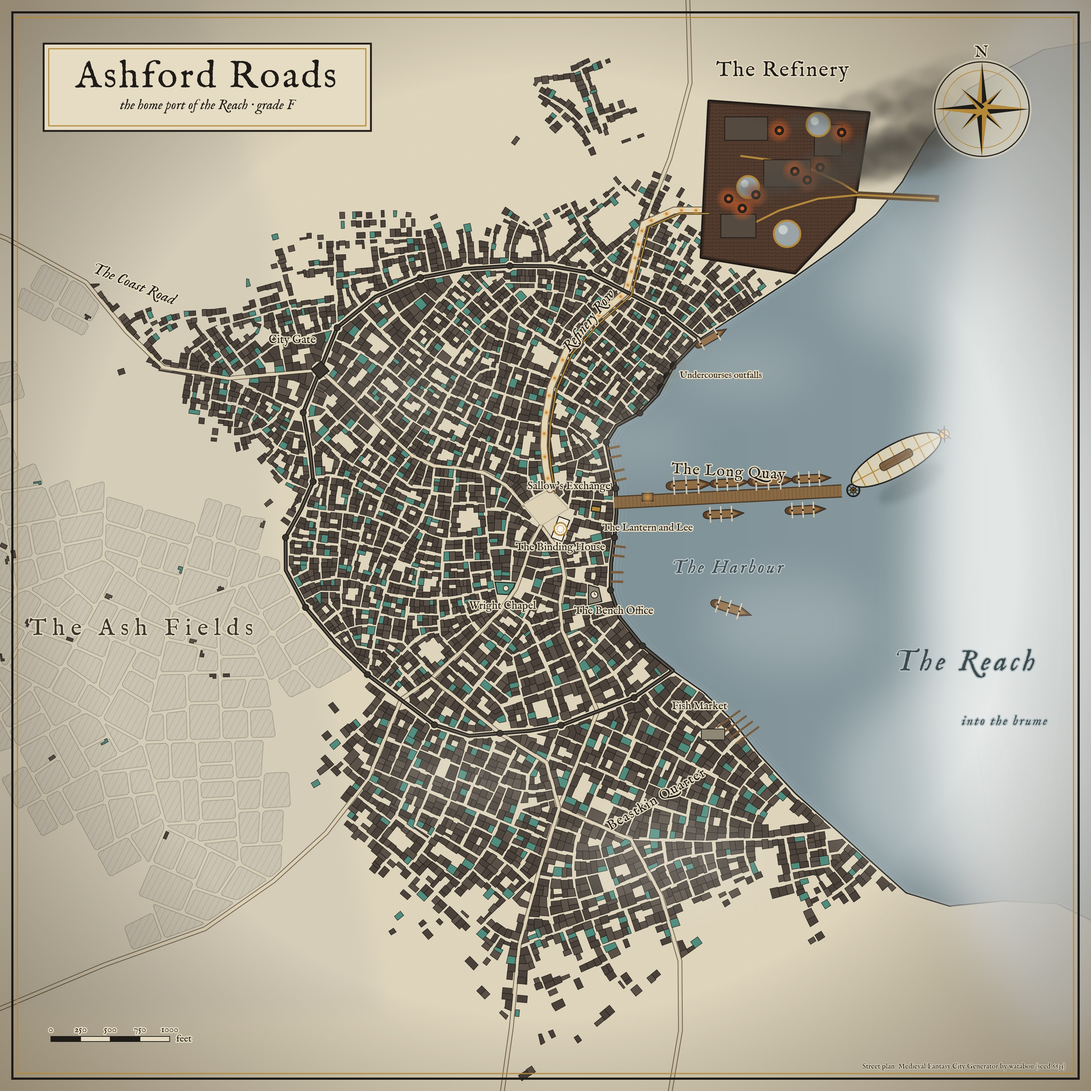
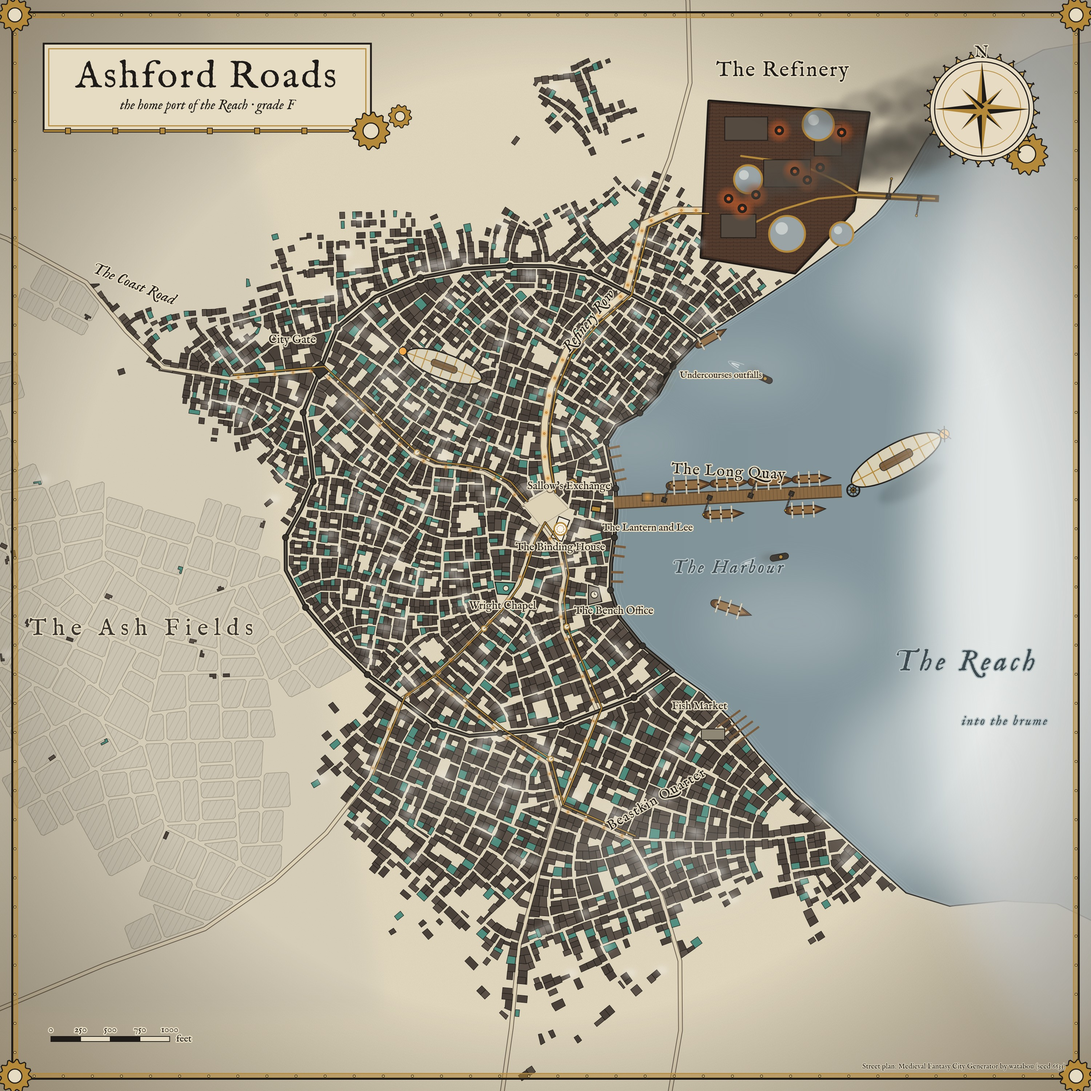
Ashford Roads map: steampunk pass (owner, 19 Nov)
Brass charge mains with gauges and charge-lamps on every main road, chimney steam, cranes on the
Long Quay and the refinery pier, two charge-engined tugs, a second sky ship in flight, larger
brume tanks, and a riveted brass frame with cogs. Ambient only: no new named places.

Claude-Session: https://claude.ai/code/session_01GTFAprqijHyD6UUxPvG4xv

diff --git a/ashford-roads-city/watabou/build_map.py b/ashford-roads-city/watabou/build_map.py
@@ -70,6 +70,20 @@ LABELS = [  # (text, x, y, size, rotation, style)
 ]
 
 
+
+def cog(cx, cy, r, teeth=12, fill="#B5893A", stroke="#1E1B18", sw=3.0, hole=0.42):
+    """A gear wheel in screen px."""
+    d = []
+    for i in range(teeth * 2):
+        a0 = math.pi * 2 * i / (teeth * 2)
+        a1 = math.pi * 2 * (i + 1) / (teeth * 2)
+        rr = r if i % 2 == 0 else r * 0.82
+        for a in (a0 + 0.08, a1 - 0.08):
+            d.append(f"{cx + rr * math.cos(a):.1f},{cy + rr * math.sin(a):.1f}")
+    return (f'<polygon points="{" ".join(d)}" fill="{fill}" stroke="{stroke}" stroke-width="{sw}" stroke-linejoin="round"/>'
+            f'<circle cx="{cx:.1f}" cy="{cy:.1f}" r="{r*hole:.1f}" fill="#E6DCC3" stroke="{stroke}" stroke-width="{sw}"/>')
+
+
 def T(p):
     return ((p[0] - X0) * K, (Y1 - p[1]) * K)
 
@@ -200,7 +214,7 @@ def build(data: dict, labels: bool) -> str:
     el.append(line([(500, 900), (650, 880), (760, 830), (800, 805)], stroke=BRASS, stroke_width=f"{5*s:.1f}"))
     for (x, y, w, h) in [(450, 690, 90, 60), (560, 820, 120, 70), (460, 940, 110, 60), (690, 900, 70, 80)]:
         el.append(poly([(x, y), (x + w, y), (x + w, y + h), (x, y + h)], fill="#544a40", stroke=INK, stroke_width=f"{2*s:.1f}"))
-    for (x, y, r) in [(620, 700, 34), (700, 980, 30), (520, 820, 28)]:           # domed brume tanks
+    for (x, y, r) in [(620, 700, 46), (700, 980, 40), (520, 840, 36), (760, 700, 30)]:           # domed brume tanks
         cx, cy = T((x, y))
         el.append(f'<circle cx="{cx:.1f}" cy="{cy:.1f}" r="{r*s:.1f}" fill="{BRUME}" stroke="{BRASS}" stroke-width="{5*s:.1f}"/>')
         el.append(f'<circle cx="{cx-r*s*.3:.1f}" cy="{cy-r*s*.3:.1f}" r="{r*s*.35:.1f}" fill="#d9dedc" opacity=".7"/>')
@@ -301,6 +315,68 @@ def build(data: dict, labels: bool) -> str:
             lx, ly = T((a[0] + (b[0] - a[0]) * t, a[1] + (b[1] - a[1]) * t))
             el.append(f'<circle cx="{lx:.1f}" cy="{ly:.1f}" r="{11*s:.1f}" fill="url(#lamp)" opacity=".7"/>')
             el.append(f'<circle cx="{lx:.1f}" cy="{ly:.1f}" r="{2.4*s:.1f}" fill="{AMBER}" stroke="{INK}" stroke-width="{.6*s:.1f}"/>')
+    # ---- steampunk: charge mains, lamps on every main road, chimney steam, cranes, tugs, a second sky ship -------
+    ring = F["walls"]["geometries"][0]["coordinates"][0]
+    def within_town(p):
+        return inside(p, ring) or math.dist(p, (0, 0)) < 900
+    for ri, r in enumerate(R):                                                    # brass charge mains along the main roads
+        cs = [p for p in r["coordinates"] if within_town(p)]
+        if len(cs) < 2 or ri == 3:
+            continue
+        off = [(x + 11, y + 9) for x, y in cs]
+        el.append(line(off, stroke=INK, stroke_width=f"{5.5*s:.1f}", stroke_linecap="round"))
+        el.append(line(off, stroke=BRASS, stroke_width=f"{3*s:.1f}", stroke_linecap="round"))
+        for a, b in zip(cs, cs[1:]):                                              # lamps every ~45 units
+            n = max(1, int(math.dist(a, b) // 45))
+            for i in range(n):
+                t = (i + .5) / n
+                lx, ly = T((a[0] + (b[0] - a[0]) * t, a[1] + (b[1] - a[1]) * t))
+                el.append(f'<circle cx="{lx:.1f}" cy="{ly:.1f}" r="{9*s:.1f}" fill="url(#lamp)" opacity=".55"/>'
+                          f'<circle cx="{lx:.1f}" cy="{ly:.1f}" r="{2*s:.1f}" fill="{AMBER}" stroke="{INK}" stroke-width="{.5*s:.1f}"/>')
+        gx, gy = T(off[len(off) // 2])                                            # a gauge ring on each main
+        el.append(f'<circle cx="{gx:.1f}" cy="{gy:.1f}" r="{7*s:.1f}" fill="{PAPER}" stroke="{BRASS}" stroke-width="{2.5*s:.1f}"/>'
+                  f'<line x1="{gx:.1f}" y1="{gy:.1f}" x2="{gx+5*s:.1f}" y2="{gy-3*s:.1f}" stroke="{INK}" stroke-width="{1.2*s:.1f}"/>')
+    # the main from the refinery splits at the square into the other mains
+    sq = T((0, 0))
+    el.append(cog(sq[0] + 70 * s, sq[1] - 60 * s, 13 * s, 10, sw=1.6 * s))
+    # chimney steam over the rooftops
+    for i, b in enumerate(F["buildings"]["coordinates"]):
+        if hashf(i * 7 + 3) < .045:
+            c = centre(b[0])
+            if inside(c, ref):
+                continue
+            px, py = T((c[0] + 14, c[1] + 10))
+            el.append(f'<ellipse cx="{px:.1f}" cy="{py:.1f}" rx="{16*s:.1f}" ry="{9*s:.1f}" fill="#f4f2ec" opacity=".55" filter="url(#blur8)"/>')
+    # iron cranes on the Long Quay and the refinery pier
+    def crane(x, y, rot):
+        cx, cy = T((x, y))
+        return (f'<g transform="translate({cx:.1f},{cy:.1f}) rotate({rot})"><rect x="{-6*s:.1f}" y="{-6*s:.1f}" width="{12*s:.1f}" height="{12*s:.1f}" fill="#3a342e" stroke="{INK}" stroke-width="{1.5*s:.1f}"/>'
+                f'<line x1="0" y1="0" x2="{46*s:.1f}" y2="0" stroke="{INK}" stroke-width="{4*s:.1f}"/><line x1="0" y1="0" x2="{46*s:.1f}" y2="0" stroke="#6b6156" stroke-width="{2*s:.1f}"/>'
+                + "".join(f'<line x1="{k*s:.1f}" y1="{-2*s:.1f}" x2="{(k+6)*s:.1f}" y2="{2*s:.1f}" stroke="{INK}" stroke-width="{.8*s:.1f}"/>' for k in range(4, 44, 8))
+                + f'<circle cx="{46*s:.1f}" cy="0" r="{3*s:.1f}" fill="{BRASS}" stroke="{INK}" stroke-width="{1*s:.1f}"/></g>')
+    for t, rot in [(.22, -70), (.42, 110), (.6, -70), (.78, 110)]:
+        el.append(crane(q0[0] + (q1[0] - q0[0]) * t, q0[1] + (q1[1] - q0[1]) * t, rot))
+    el.append(crane(880, 796, -80)); el.append(crane(960, 792, 100))
+    # charge-engined tugs with funnels and wakes
+    def tug(x, y, rot):
+        cx, cy = T((x, y))
+        return (f'<g transform="translate({cx:.1f},{cy:.1f}) rotate({rot})">'
+                f'<path d="M{-70*s:.1f},{-3*s:.1f} Q{-110*s:.1f},0 {-70*s:.1f},{3*s:.1f}" fill="none" stroke="#eef0ee" stroke-width="{3*s:.1f}" opacity=".7"/>'
+                f'<path d="M{-60*s:.1f},{-10*s:.1f} Q{-140*s:.1f},0 {-60*s:.1f},{10*s:.1f}" fill="none" stroke="#eef0ee" stroke-width="{2*s:.1f}" opacity=".45"/>'
+                f'<rect x="{-24*s:.1f}" y="{-8*s:.1f}" width="{48*s:.1f}" height="{16*s:.1f}" rx="{8*s:.1f}" fill="#3a342e" stroke="{INK}" stroke-width="{1.5*s:.1f}"/>'
+                f'<circle cx="{4*s:.1f}" cy="0" r="{5*s:.1f}" fill="{BRASS}" stroke="{INK}" stroke-width="{1.5*s:.1f}"/>'
+                f'<ellipse cx="{-26*s:.1f}" cy="{-4*s:.1f}" rx="{22*s:.1f}" ry="{9*s:.1f}" fill="#4e4943" opacity=".35" filter="url(#blur8)"/></g>')
+    el.append(tug(600, -130, -10)); el.append(tug(560, 330, 25))
+    # a second sky ship in flight over the old walls, with its shadow on the roofs
+    ax, ay = T((-260, 360))
+    el.append(f'<ellipse cx="{ax+60*s:.1f}" cy="{ay+80*s:.1f}" rx="{70*s:.1f}" ry="{22*s:.1f}" fill="#1E1B18" opacity=".18" filter="url(#blur8)" transform="rotate(20 {ax+60*s:.1f} {ay+80*s:.1f})"/>')
+    el.append(f'<g transform="translate({ax:.1f},{ay:.1f}) scale(1.45) translate({-ax:.1f},{-ay:.1f}) rotate(20 {ax:.1f} {ay:.1f})">'
+              f'<ellipse cx="{ax:.1f}" cy="{ay:.1f}" rx="{70*s:.1f}" ry="{22*s:.1f}" fill="#d8cfb7" stroke="{INK}" stroke-width="{2.2*s:.1f}"/>'
+              + "".join(f'<line x1="{ax+dx*s:.1f}" y1="{ay-20*s*math.sqrt(max(0,1-(dx/70)**2)):.1f}" x2="{ax+dx*s:.1f}" y2="{ay+20*s*math.sqrt(max(0,1-(dx/70)**2)):.1f}" stroke="{BRASS}" stroke-width="{1.6*s:.1f}"/>' for dx in range(-55, 60, 18))
+              + f'<line x1="{ax-70*s:.1f}" y1="{ay:.1f}" x2="{ax+70*s:.1f}" y2="{ay:.1f}" stroke="{BRASS}" stroke-width="{1.6*s:.1f}"/>'
+              f'<rect x="{ax-24*s:.1f}" y="{ay-6*s:.1f}" width="{48*s:.1f}" height="{12*s:.1f}" rx="{5*s:.1f}" fill="#6b4c2e" stroke="{INK}" stroke-width="{1.2*s:.1f}" opacity=".85"/>'
+              f'<circle cx="{ax-78*s:.1f}" cy="{ay:.1f}" r="{7*s:.1f}" fill="{AMBER}" stroke="{INK}" stroke-width="{1.2*s:.1f}"/>'
+              f'<path d="M{ax-86*s:.1f},{ay:.1f} Q{ax-150*s:.1f},{ay-10*s:.1f} {ax-210*s:.1f},{ay+4*s:.1f}" fill="none" stroke="#f4f2ec" stroke-width="{6*s:.1f}" opacity=".5" filter="url(#blur8)"/></g>')
     # ---- fog: off the sea and over the low streets, never on Refinery Row ----------------------------------------
     defs += f'<mask id="nofog"><rect width="{PX}" height="{PX}" fill="white"/>{line(row, stroke="black", stroke_width=f"{110*s:.1f}", stroke_linecap="round", filter="url(#blur24)")}<circle cx="{T((600,830))[0]:.1f}" cy="{T((600,830))[1]:.1f}" r="{260*s:.1f}" fill="black" filter="url(#blur60)"/></mask>'
     fog = []
@@ -315,9 +391,15 @@ def build(data: dict, labels: bool) -> str:
     m = 34
     el.append(f'<rect x="{m}" y="{m}" width="{PX-2*m}" height="{PX-2*m}" fill="none" stroke="{INK}" stroke-width="6"/>')
     el.append(f'<rect x="{m+14}" y="{m+14}" width="{PX-2*m-28}" height="{PX-2*m-28}" fill="none" stroke="{BRASS}" stroke-width="3"/>')
+    el.append(f'<rect x="{m+7}" y="{m+7}" width="{PX-2*m-14}" height="{PX-2*m-14}" fill="none" stroke="{BRASS}" stroke-width="10" opacity=".55"/>')
+    for k in range(m + 60, PX - m - 40, 80):                                     # rivets
+        for (x, y) in [(k, m + 7), (k, PX - m - 7), (m + 7, k), (PX - m - 7, k)]:
+            el.append(f'<circle cx="{x}" cy="{y}" r="3.2" fill="#e0c27a" stroke="{INK}" stroke-width="1.2"/>')
+    for (x, y) in [(m + 7, m + 7), (PX - m - 7, m + 7), (m + 7, PX - m - 7), (PX - m - 7, PX - m - 7)]:
+        el.append(cog(x, y, 46, 12, sw=3))
     # compass rose in the north-east sea
     cx, cy, r = PX - 300, 300, 130
-    rose = [f'<g transform="translate({cx},{cy})">', f'<circle r="{r*1.05}" fill="{PAPER}" opacity=".55"/>', f'<circle r="{r}" fill="none" stroke="{INK}" stroke-width="3"/>',
+    rose = [cog(cx + r * 0.95, cy + r * 0.95, 58, 14, sw=3), cog(cx, cy, r * 1.22, 24, fill="#c9a45a", sw=3, hole=0.9), f'<g transform="translate({cx},{cy})">', f'<circle r="{r*1.05}" fill="{PAPER}" opacity=".85"/>', f'<circle r="{r}" fill="none" stroke="{INK}" stroke-width="3"/>',
             f'<circle r="{r*.82}" fill="none" stroke="{BRASS}" stroke-width="2"/>']
     for a in range(0, 360, 45):
         L = r * (1 if a % 90 == 0 else .62)
@@ -341,6 +423,9 @@ def build(data: dict, labels: bool) -> str:
     tx, ty = 120, 120
     el.append(f'<rect x="{tx}" y="{ty}" width="900" height="240" fill="{PAPER}" stroke="{INK}" stroke-width="5"/>'
               f'<rect x="{tx+14}" y="{ty+14}" width="872" height="212" fill="none" stroke="{BRASS}" stroke-width="3"/>')
+    el.append(cog(tx + 900, ty + 240, 52, 12, sw=3) + cog(tx + 980, ty + 200, 32, 10, sw=2.4))
+    el.append(f'<path d="M{tx},{ty+240} H{tx+840}" stroke="{INK}" stroke-width="9"/><path d="M{tx},{ty+240} H{tx+840}" stroke="{BRASS}" stroke-width="5"/>'
+              + "".join(f'<rect x="{tx+60+i*130}" y="{ty+232}" width="14" height="16" fill="{BRASS}" stroke="{INK}" stroke-width="2"/>' for i in range(6)))
     if labels:
         el.append(f'<text x="{tx+450}" y="{ty+120}" text-anchor="middle" class="lab place" font-size="104" style="stroke-width:0">Ashford Roads</text>'
                   f'<text x="{tx+450}" y="{ty+180}" text-anchor="middle" class="lab street" font-size="38" style="stroke-width:0">the home port of the Reach · grade F</text>')

diff --git a/ashford-roads-city/watabou/README.md b/ashford-roads-city/watabou/README.md
@@ -40,3 +40,12 @@ Canon gives no compass directions, so the placements follow what the lore says a
 | The Harbour, the Reach, the brume | the bay, the open sea east fading into fog | "a deepwater harbour"; Ashford is in the Reach; the sea is covered in brume |
 
 Not placed, because the lore gives no direction for them: Coldwater, Kelder's Wall.
+
+## Steampunk detail (the owner, 19 Nov 2026: "Steampunk")
+
+Ambient detail, no new named places, all from what the lore says charge does (refined brume that lights lamps and
+runs lifts, pumps and engines) and the answered decisions (sky ships new and rare): brass charge mains along the main
+roads with gauges, charge-lamps on every main road (densest on Refinery Row), chimney steam over the roofs, iron cranes
+on the Long Quay and the refinery pier, two charge-engined tugs in the harbour, a second sky ship in flight over the
+walls (two in all, since they are rare), larger domed brume tanks at the refinery, and a riveted brass frame with
+cogs on the corners, the compass and the title.
